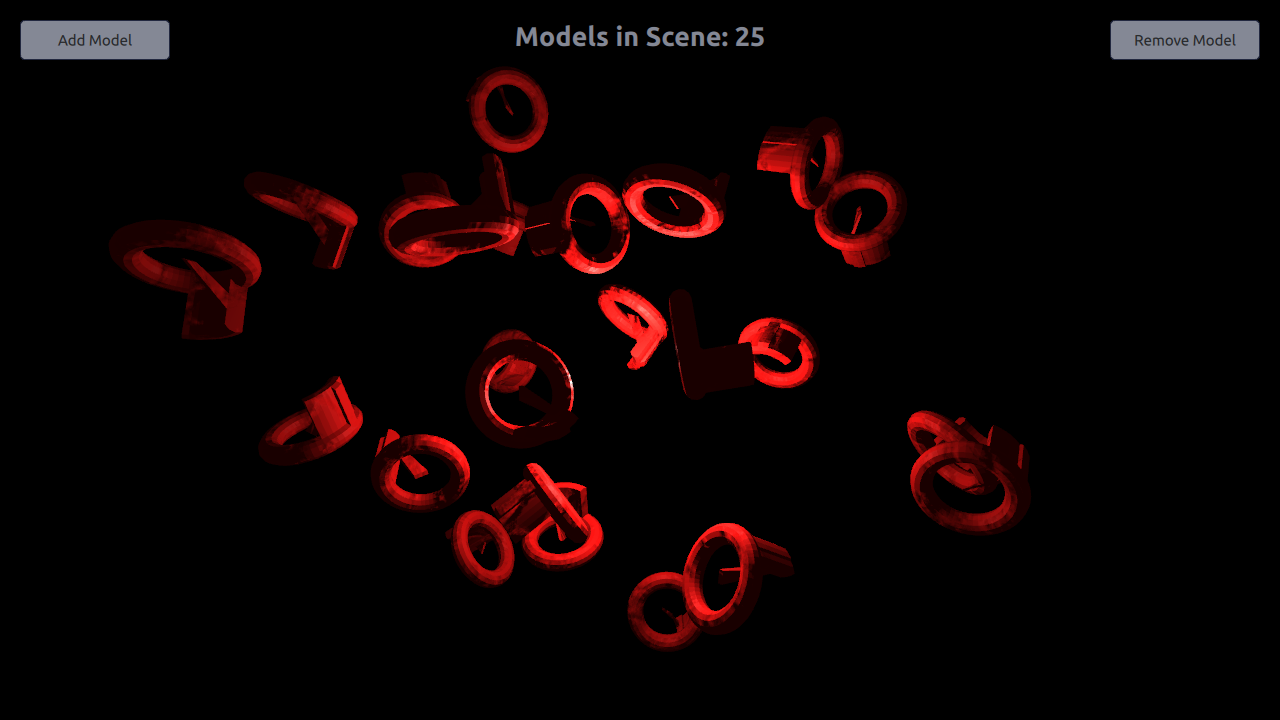
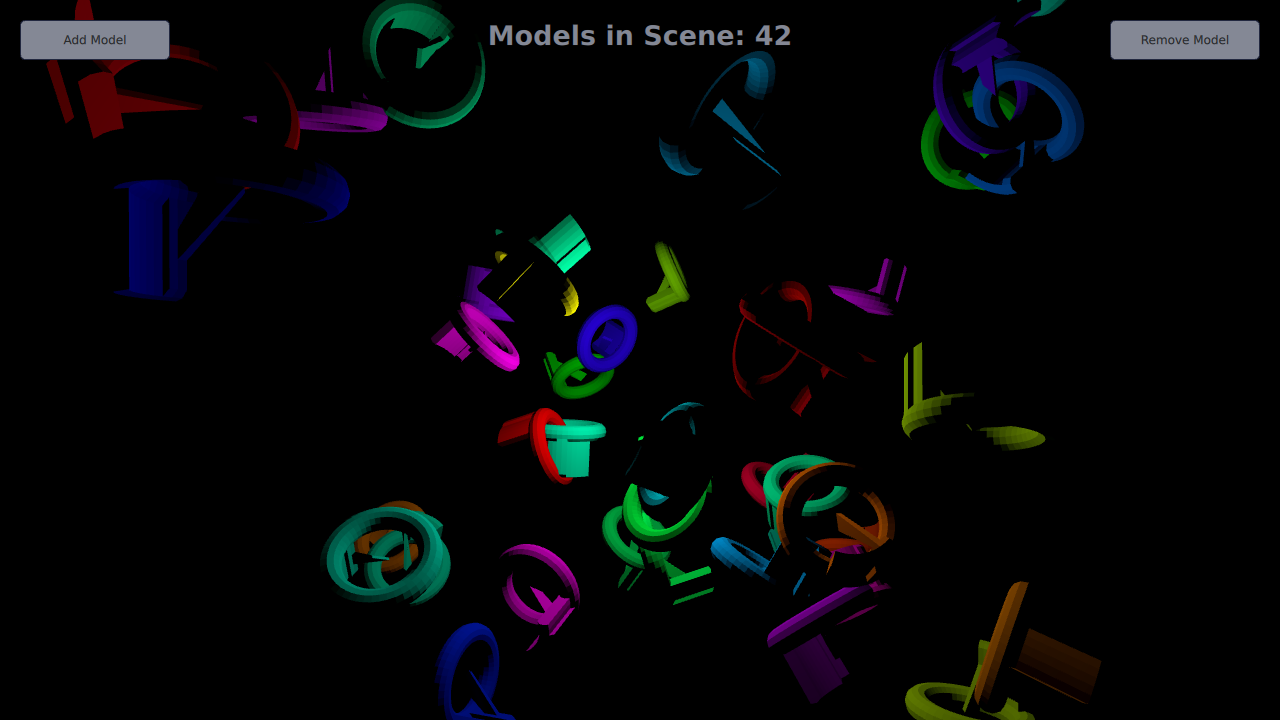
Update documentation for the dynamiccreation example
Restructure the code a bit to make it easier to document. Also make it
look a little more interesting.

diff --git a/examples/quick3d/dynamiccreation/main.qml b/examples/quick3d/dynamiccreation/main.qml
@@ -57,6 +57,7 @@ Window {
     width: 1280
     height: 720
     visible: true
+    color: "black"
     title: "Dynamic Model Creation example"
 
     Button {
@@ -77,10 +78,7 @@ Window {
             radius: 5
         }
 
-        onClicked: {
-            if (shapeSpawner.instances.length < shapeSpawner.maxInstances)
-                shapeSpawner.addOrRemove(true);
-        }
+        onClicked: shapeSpawner.addShape()
     }
 
     Label {
@@ -91,6 +89,8 @@ Window {
         font.pointSize: 20
         font.bold: true
         color: "#848895"
+
+        text: "Models in Scene: " + shapeSpawner.count
     }
 
     Button {
@@ -100,6 +100,7 @@ Window {
         anchors.margins: 20
         text: "Remove Model"
         implicitWidth: 150
+        enabled: shapeSpawner.count > 0
 
         background: Rectangle {
             implicitWidth: 150
@@ -111,10 +112,7 @@ Window {
             radius: 5
         }
 
-        onClicked: {
-            if (shapeSpawner.instances.length > 0)
-                shapeSpawner.addOrRemove(false);
-        }
+        onClicked: shapeSpawner.removeShape()
     }
 
     View3D {
@@ -131,7 +129,7 @@ Window {
 
         PointLight {
             position: Qt.vector3d(0, 0, 0);
-            brightness: 1.5
+            brightness: 2.5
         }
 
         Node {
@@ -158,46 +156,39 @@ Window {
             id: shapeSpawner
             property real range: 300
             property var instances: []
-            readonly property int maxInstances: 100
+            property int count
+        //! [spawner node]
 
-            function addOrRemove(add) {
-                //! [spawner node]
-                if (add) {
-                    //! [adding]
-                    // Create a new weirdShape at random postion
-                    var xPos = (2 * Math.random() * range) - range;
-                    var yPos = (2 * Math.random() * range) - range;
-                    var zPos = (2 * Math.random() * range) - range;
-                    var weirdShapeComponent = Qt.createComponent("WeirdShape.qml");
-                    let instance = weirdShapeComponent.createObject(
-                            shapeSpawner, { "x": xPos, "y": yPos, "z": zPos,
-                                "scale": Qt.vector3d(0.25, 0.25, 0.25)});
-                    instances.push(instance);
-                    //! [adding]
-                    if (instances.length === maxInstances)
-                        addButton.enabled = false;
-                    else if (instances.length > 0)
-                        removeButton.enabled = true;
-                } else {
-                    //! [removing]
-                    // Remove last item in instances list
+            //! [adding]
+            function addShape()
+            {
+                var xPos = (2 * Math.random() * range) - range;
+                var yPos = (2 * Math.random() * range) - range;
+                var zPos = (2 * Math.random() * range) - range;
+                var shapeComponent = Qt.createComponent("WeirdShape.qml");
+                let instance = shapeComponent.createObject(shapeSpawner,
+                    { "x": xPos, "y": yPos, "z": zPos, "scale": Qt.vector3d(0.25, 0.25, 0.25)});
+                instances.push(instance);
+                count = instances.length
+            }
+            //! [adding]
+
+            //! [removing]
+            function removeShape()
+            {
+                if (instances.length > 0) {
                     let instance = instances.pop();
                     instance.destroy();
-                    //! [removing]
-                    if (instances.length === 0)
-                        removeButton.enabled = false;
-                    else if (instances.length < maxInstances)
-                        addButton.enabled = true;
+                    count = instances.length
                 }
-                countLabel.text = "Models in Scene: " + instances.length;
             }
+            //! [removing]
         }
 
         //! [startup]
         Component.onCompleted: {
-            // Create 10 instances to get started
             for (var i = 0; i < 10; ++i)
-                shapeSpawner.addOrRemove(true);
+                shapeSpawner.addShape()
         }
         //! [startup]
     }

diff --git a/examples/quick3d/dynamiccreation/WeirdShape.qml b/examples/quick3d/dynamiccreation/WeirdShape.qml
@@ -58,6 +58,8 @@ Node {
     property real yRotation: Math.random() * (360 - (-360)) + -360
     property real zRotation: Math.random() * (360 - (-360)) + -360
 
+    property real hue: Math.random()
+
     Model {
         source: "weirdShape.mesh"
         scale: Qt.vector3d(150, 150, 150)
@@ -66,12 +68,12 @@ Node {
         SequentialAnimation on eulerRotation {
             loops: Animation.Infinite
             PropertyAnimation {
-                duration: Math.random() * (10000 - 1) + 1
+                duration: Math.random() * (10000 - 1000) + 1000
                 to: Qt.vector3d(xRotation -  360, yRotation - 360, zRotation - 360)
                 from: Qt.vector3d(xRotation, yRotation, zRotation)
             }
         }
 
-        materials: [ DefaultMaterial { } ]
+        materials: [ DefaultMaterial { diffuseColor: Qt.hsva(hue, 1.0, 1.0, 1.0) } ]
     }
 }

diff --git a/examples/quick3d/effects/main.qml b/examples/quick3d/effects/main.qml
@@ -93,7 +93,7 @@ Window {
 
         environment: SceneEnvironment {
             id: sceneEnvironment
-            clearColor: "#f0f0f0"
+            clearColor: "#f040f0"
             backgroundMode: motionBox.checked ? SceneEnvironment.Transparent : SceneEnvironment.Color
 
             antialiasingMode: modeButton1.checked ? SceneEnvironment.NoAA : modeButton2.checked
